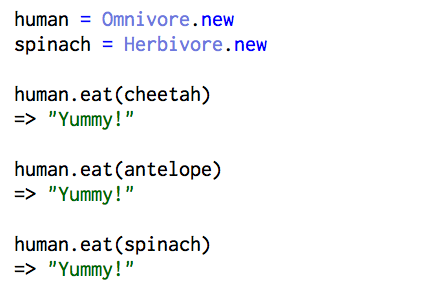
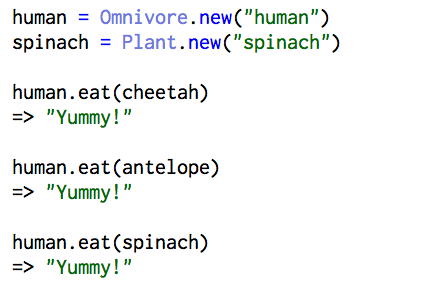
update images

diff --git a/stylesheets/t5-ruby-classes.css b/stylesheets/t5-ruby-classes.css
@@ -16,7 +16,7 @@ header {
 
 .image {
   background-image: url("../images/blog/cheetah-eat-antelope.jpg");
-  background-position: 0px -60px;
+  background-position: 0px 0px;
   background-size: cover;
   height: 400px;
   margin: 50px auto;

diff --git a/delete_1.rb b/delete_1.rb
@@ -56,16 +56,16 @@ cheetah = Carnivore.new("cheetah")
 
 
 human = Omnivore.new("human")
-spinach = Herbivore.new("spinach")
+spinach = Plant.new("spinach")
 
-# human.eat(cheetah)
-# => "Yummy!"
+human.eat(cheetah)
+=> "Yummy!"
 
-# human.eat(antelope)
-# => "Yummy!"
+human.eat(antelope)
+=> "Yummy!"
 
-# human.eat(spinach)
-# => "Yummy!"
+human.eat(spinach)
+=> "Yummy!"
 
 cheetah = Carnivore.new("cheetah")
 antelope = Herbivore.new("antelope")
